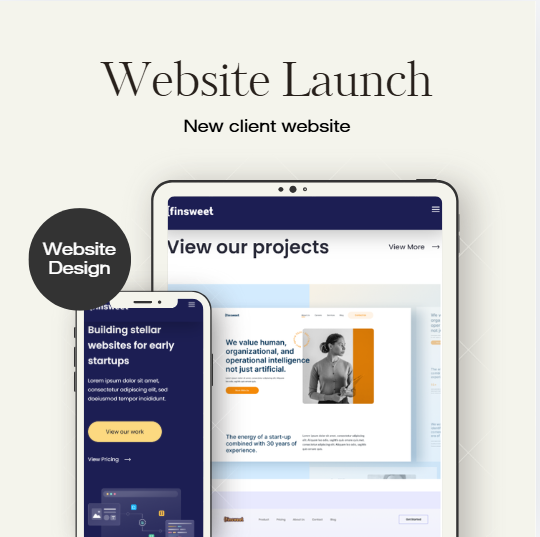
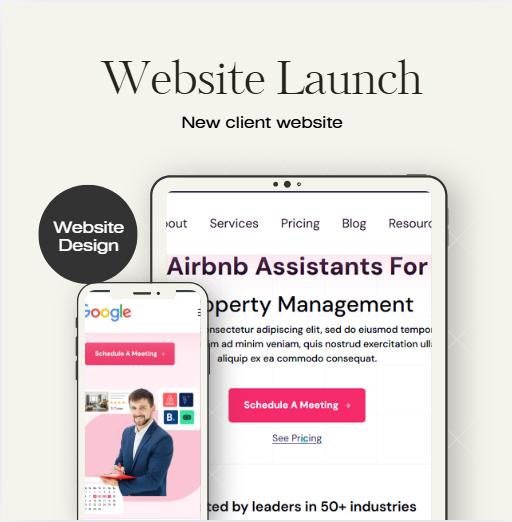
6 number project chnage name and image

diff --git a/src/components/Projects.jsx b/src/components/Projects.jsx
@@ -58,9 +58,9 @@ const Projects = ({ darkMode }) => {
       title: "Building Stellar Websites for Startups",
       desc: "We design and develop high-quality digital products to help early-stage startups grow and succeed.",
       image: profile4,
-      tages: ["React", "Framer Motion", "React Icons"],
-      github: "https://github.com/almahmud9/agency-landing-react",
-      live: "https://agency-landing-react.vercel.app/",
+      tages: ["Nextjs", "Tanstack Query", "React Icons"],
+      github: "https://github.com/almahmud-dev/airbnb-assistant-landing",
+      live: "https://airbnb-assistant-landing.vercel.app/",
     },
   ];
   return (
